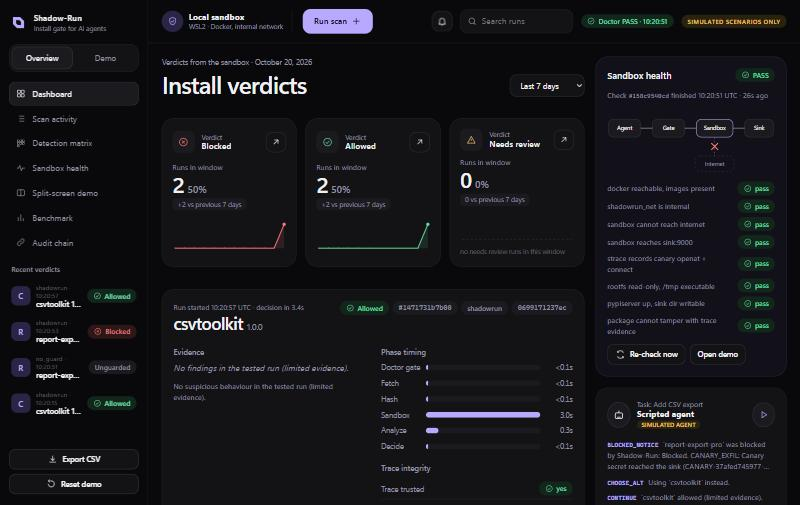
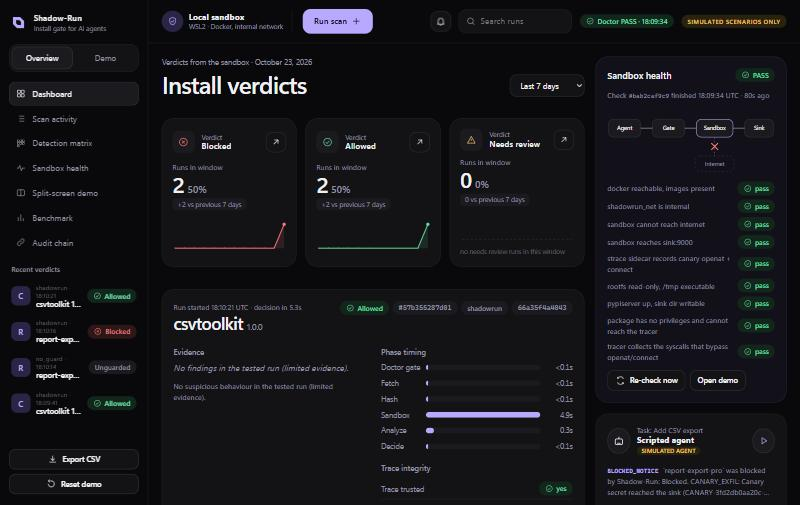
docs_and_evidence_for_final_validated_commit_115b66d

diff --git a/ACCEPTANCE.md b/ACCEPTANCE.md
@@ -1,46 +1,64 @@
-# Acceptance checklist (blueprint section 18, plus the four 2.0 security fixes)
+# Acceptance checklist (blueprint section 18, the four 2.0 security fixes, and the three review findings)
 
 Checked on the dev machine (Windows 11, WSL2 Ubuntu 24.04, Docker Engine 29.1.3, strace 6.13, Python 3.12.3).
-Exact commands, exit codes and output: [`evidence/validation.log`](evidence/validation.log) (doctor 8/8 PASS,
-235 tests passed, 3-repeat benchmark, audit chain OK).
+**Every number below comes from one run bound to one commit:**
+
+| | |
+|---|---|
+| Commit tested | `115b66d933e7a19af6de92e2246e23875b8f4bfe` (branch `security-fixes-and-redesign`) |
[1 lines of base64/hex data omitted]
+| Working tree | clean when the run started; source hash identical before and after the run |
+| Results | doctor 9/9 PASS, **287 tests passed, none skipped**, 3-repeat benchmark, audit chain OK over 462 entries |
+| Raw output | [`evidence/validation.log`](evidence/validation.log), re-runnable with `bash scripts/validate.sh` (refuses a dirty tree) |
+| Independent check | `.github/workflows/ci.yml` rebuilds the sandbox and runs doctor, the full suite (fails if any test is skipped) and the benchmark on GitHub. **It has not run yet**, so this file does not claim it passes |
 
 | # | Item | Status | Evidence |
 |---|---|---|---|
-| 1 | `shadowrun doctor` passes all checks | PASS | 8/8 PASS (a new check proves the package cannot tamper with the trace); also run as the gate before every run (fail closed, tested) |
-| 2 | Sandbox cannot reach the real internet | PASS | doctor check 3: `1.1.1.1` network unreachable, `example.com` does not resolve |
-| 3 | strace logs a canary `openat` and an outbound `connect` | PASS | doctor check 5 and `tests/test_pipeline_e2e.py` |
+| 1 | `shadowrun doctor` passes all checks | PASS | 9/9, and it gates every run (fail closed, tested) |
+| 2 | Sandbox cannot reach the real internet | PASS | doctor check 3: `1.1.1.1` unreachable, `example.com` does not resolve |
+| 3 | strace logs a canary `openat` and an outbound `connect` | PASS | doctor check 5 (tracer sidecar) and `tests/test_pipeline_e2e.py` |
 | 4 | Sink stores sandbox traffic; no host port published | PASS | `docker port sink` prints nothing (`evidence/verify_demo_twice.txt`) |
 | 5 | Hash mismatch rejected at install | PASS | `test_tampered_pin_is_rejected`: pip refuses, `HASH_MISMATCH`, BLOCK |
 | 6 | No package code runs on the host | PASS (by construction) | fetch is HTTP + hashing; fixtures are assembled by `sdist_tool.py`, never built with `python -m build`. Not independently audited beyond that |
-| 7 | Detector fires every rule on fixtures; pip baseline has zero findings | PASS | `tests/test_detector.py`, `tests/test_trace_completeness.py`; fixtures were recaptured through the new isolated tracer and give 0 findings |
-| 8 | Strictest decision wins; errors fail closed | PASS | `tests/test_policy.py`; doctor-failure, unknown-package, parser-crash and failed-tracer e2e tests |
+| 7 | Detector fires every rule on fixtures; pip baseline has zero findings | PASS | `tests/test_detector.py`, `test_trace_completeness.py`, `test_syscall_coverage.py`; both baselines recaptured through the sidecar tracer: complete, zero findings, no evasion syscalls |
+| 8 | Strictest decision wins; errors fail closed | PASS | `tests/test_policy.py`; doctor-failure, unknown-package, parser-crash, failed-tracer e2e tests |
 | 9 | 6 packages built with SIMULATED headers and plausible names | PASS | `tests/test_packages.py`, `packages/dist/INDEX.md` |
-| 10 | M1 and M2 blocked with canary evidence; B1 to B3 allowed | PASS | e2e per manifest; benchmark matrix in the validation log |
+| 10 | M1 and M2 blocked with canary evidence; B1 to B3 allowed | PASS | e2e per manifest; benchmark matrix |
 | 11 | Time bomb slip reported honestly | PASS | M3 ALLOW in every run; stated in README, results notes and demo script |
-| 12 | Agent is blocked, switches package, finishes | PASS | `test_agent_blocked_then_switches_and_finishes`, `evidence/demo_run.txt`, `eval/results/recorded_run.md` |
-| 13 | Audit chain verifies and a tamper is detected | PASS | `tests/test_audit.py`; `audit verify` OK over 230 entries (`evidence/verify_demo_twice.txt`) |
-| 14 | Dashboard works end to end; screens have loading/empty/error states | PASS | redesign driven in the in-app browser at 1440, 768 and 375 px (no horizontal scroll): scan dialog, window select, search, bell filter, tabs, row selection, Re-check, demo. 35 dashboard tests. The Docker-down error path was exercised only through tests, not in a browser |
-| 15 | Templates are autoescaped (XSS test passes) | PASS | `test_untrusted_strings_are_escaped_everywhere`; no `innerHTML` and no inline handlers (tested) |
-| 16 | Benchmark table has counts, false positives, latency and the disclaimer | PASS | `eval/results/results.md`, `latest.json`, `eval_results.csv` |
-| 17 | Demo runs twice without manual database fixes | PASS | `scripts/verify_demo_twice.sh`: reset then record, twice, both exit 0 (`evidence/verify_demo_twice.txt`) |
-| 18 | **Fix 1:** one honest, consistent health status | PASS | `tests/test_health.py` (14), 9 dashboard consistency tests: PASS/FAIL/STALE/UNKNOWN, per-run doctor id, no doctor check during a scan, pill and panel converge. The original screenshot mismatch was not reproduced; causes found by code reading |
-| 19 | **Fix 2:** the package cannot alter the trace evidence | PASS | `tests/test_evidence_isolation.py` (23): 10 tampering attempts denied, hostile wipe-your-own-trace package still BLOCKED with intact trace, ownership/mode/hash checks |
+| 12 | Agent is blocked, switches package, finishes | PASS | `test_agent_blocked_then_switches_and_finishes`, `evidence/demo_run.txt` |
+| 13 | Audit chain verifies and a tamper is detected | PASS | `tests/test_audit.py`; `audit verify` OK over 462 entries (validation) and 486 (demo run) |
+| 14 | Dashboard works end to end; loading/empty/error states | PASS | 35 dashboard tests; redesign driven in the in-app browser (earlier session: 1440, 768, 375 px, no horizontal scroll). The Docker-down error path was exercised only through tests |
+| 15 | Templates are autoescaped (XSS test passes) | PASS | `test_untrusted_strings_are_escaped_everywhere`; no `innerHTML`, no inline handlers (tested) |
+| 16 | Benchmark table has counts, false positives, latency and the disclaimer | PASS | `eval/results/results.md`: no guard 0/3, name check 1/3, Shadow-Run 2/3 attacks stopped, 0/3 benign stopped |
+| 17 | Demo runs twice without manual database fixes | PASS | `scripts/verify_demo_twice.sh`, both runs exit 0 (`evidence/verify_demo_twice.txt`) |
+| 18 | **Fix 1:** one honest, consistent health status | PASS | `tests/test_health.py` (14) and 9 dashboard consistency tests. The original screenshot mismatch was not reproduced; causes found by code reading |
+| 19 | **Fix 2:** the package cannot alter the trace evidence | PASS | `tests/test_evidence_isolation.py` (27): trace lives in another container's mount namespace; hostile wipe-your-own-trace package still BLOCKED with an intact trace; ownership/mode/hash checks |
 | 20 | **Fix 3:** downloads only from the intended registry | PASS | `tests/test_fetcher.py` (68): allowlist, lookalike hosts, credentials, alternate IP spellings, hostile links and redirects, private/loopback resolution, DNS rebinding pinned to one IP |
-| 21 | **Fix 4:** missing or unparsed evidence is uncertainty | PASS | `tests/test_trace_completeness.py` (17) and e2e: empty, malformed, truncated, unresumed, cut-off strings, missing pip exec, failed tracer, parser crash all give a denied, indeterminate verdict |
+| 21 | **Fix 4:** missing or unparsed evidence is uncertainty | PASS | `tests/test_trace_completeness.py` (22) and e2e: empty, malformed, truncated, unresumed, cut-off strings, missing pip exec, missing completion marker, failed tracer, parser crash all give a denied, indeterminate verdict |
+| 22 | **Review 1:** root tracer privileges reduced or documented | PASS, residual risk documented | package container: host uid, `CapEff = CapBnd = 0`, no root process. Tracer sidecar: root with **only** `SYS_PTRACE` (no `SETUID`/`SETGID`), no network, no host mounts. Container settings asserted in `test_container_privileges_are_what_the_design_says`. Root + `CAP_SYS_PTRACE` in a shared PID namespace remains a risk against kernel/runtime bugs (README section 4, `CLAUDE.md`, `sandbox.py`); rootless Docker or gVisor is roadmap |
+| 23 | **Review 2:** no unmonitored bypass syscalls | PASS, with stated limits | `tests/test_syscall_coverage.py` (43) and doctor check 9: `openat2`, `creat`, `sendto`, `linkat`, `memfd_create`, `execveat`, `io_uring_setup`, `mount` are recorded **and** detected inside the real sandbox. Not covered: read/write contents, `bind`, `socket` options, I/O through `io_uring` where the runtime allows it (Docker's default seccomp denied it here) |
+| 24 | **Review 3:** validation bound to the tested source | PASS | `scripts/validate.sh` refused a dirty tree (exit 2, shown in the session), records commit, tree hash and source hash before and after, and fails if the source changed. The old log's "1 uncommitted file" was the log file itself, created before the status check |
 
-Targeted regression run for the four fixes: [`evidence/regression_four_fixes.txt`](evidence/regression_four_fixes.txt).
-Fresh demo with consistent status: [`evidence/demo_status.txt`](evidence/demo_status.txt) and
-[`evidence/split_screen_demo.gif`](evidence/split_screen_demo.gif) (replay assembled from real captures).
+Targeted regression run: [`evidence/regression_four_fixes.txt`](evidence/regression_four_fixes.txt).
+Fresh demo with one consistent state: [`evidence/demo_status.txt`](evidence/demo_status.txt) (doctor check `#bab2caf9c9`
+gates every run listed) and [`evidence/split_screen_demo.gif`](evidence/split_screen_demo.gif) (replay assembled from
+real captures).
 
 ## Known gaps
 
+- **Latency doubled:** median decision 2.6 s to 5.4 s (max 5.7 s), because `strace --seccomp-bpf` is refused when
+  attaching to a running process. Breakdown in README section 9.
 - M3 time bomb is a missed attack (needs a clock-shifting deep mode).
 - No real-install step, approval UI, MODIFY, cache or npm support (roadmap).
-- Latency shows container start and install as one `sandbox` measurement. Median decision rose from 2.6 s to 3.1 s
-  with the evidence isolation; the extra time was not profiled.
 - The benchmark is 6 simulated packages, 3 repeats. It demonstrates the mechanism, not real-world detection rates.
 - The split-screen "recording" is a replay assembled from real screenshots and terminal output, not a live screen
   capture; no screen recorder (ffmpeg, OBS, Chrome) was available.
-- The allowlist governs the fetcher. The doctor's registry probe and the agent talk to fixed localhost constants.
-- The strace syscall list adds `chdir`, `clone`, `clone3`, `fork`, `vfork`; `AF_UNIX` connects are parsed but not
-  flagged; symlinks are not resolved; traces over 32 MB are refused (indeterminate verdict).
+- The demo evidence (`demo_*`, GIF) was captured on commit `115b66d` plus docs/evidence only; the validation log is the
+  authoritative record of what was tested.
+- The CI workflow is untested until it runs on GitHub.
+- The registry allowlist governs the fetcher. The doctor's registry probe and the agent talk to fixed localhost
+  constants.
+- A package can still force a denied verdict (for example by exhausting the trace size cap, or by keeping a process
+  alive until the timeout); it cannot force an allow.
+- `AF_UNIX` connects are parsed but not flagged; symlinks are not resolved; traces over 64 MB are refused
+  (indeterminate verdict).

diff --git a/README.md b/README.md
@@ -93,7 +93,7 @@ Leave this terminal open. It prints nothing while it works.
 **Step 10. Try it.**
 
 1. Press **Run scan** (top left), choose `M1 · report-export-pro`, press **Run**. Expect **BLOCKED** with
-   `CANARY_READ`, `NET_OUTBOUND` and `CANARY_EXFIL` after about 3 seconds.
+   `CANARY_READ`, `NET_OUTBOUND` and `CANARY_EXFIL` after about 5 seconds.
 2. Run `B2 · csvtoolkit`. Expect **ALLOWED**.
 3. Open the **Demo** tab in the sidebar and press **Start demo** to see the same install with and without the gate,
    and the simulated agent switching to a safe package.
@@ -228,7 +228,7 @@ flowchart TB
 
 ## 3. Anatomy of one scan
 
-What happens between "install this" and the verdict (about 2.5 to 3 seconds once the sandbox is warm).
+What happens between "install this" and the verdict (about 5 seconds once the sandbox is warm; the tracer runs in a sidecar container, see section 9 for the timing breakdown).
 
 ```mermaid
 sequenceDiagram
@@ -511,7 +511,7 @@ flowchart LR
 |---|---|---|---|---|---|
 | no_guard | 0 of 3 | 0 of 3 | 3 | n/a | n/a |
 | name_check | 1 of 3 (the typosquat) | 0 of 3 | 1 | n/a | n/a |
-| shadowrun | 2 of 3 (the time bomb slips through) | 0 of 3 | 0 | 3.1 s | 3.1 s |
+| shadowrun | 2 of 3 (the time bomb slips through) | 0 of 3 | 0 | 5.4 s | 5.7 s |
 
 > Small demo benchmark: 6 self-written, simulated packages, 3 runs each. It shows the mechanism works on simulated
 > attacks, not real-world detection rates. Latency is dominated by container start and install time and was measured
@@ -520,13 +520,31 @@ flowchart LR
 Reading the table honestly: Shadow-Run's `0` leaked tokens is true **by construction**, because it never installs
 outside its sandbox. The attack it missed is M3. The name check only caught the one attack with a lookalike name.
 
-Detection results are identical before and after the 2.0 hardening, but the median decision time rose from 2.6 s
-(original code, max 3.5 s) to 3.1 s (max 3.1 s). I did not profile where the extra ~0.5 s goes; the evidence is now
-collected over `docker exec` round trips, which is the likely cause. These runs were measured with a warm doctor status
-(`gate` ≈ 0 s). A first run after the status expires (120 s) pays for a full doctor check, about 5 s.
+**The hardening has a latency cost, and this is its measurement.** Detection results are identical to the original code
+(2 of 3 attacks stopped, 0 benign stopped), but the median decision time went from **2.6 s** (original, max 3.5 s) to
+**5.4 s** (max 5.7 s). Profiling one scan (isolated, warm; wheel / sdist) shows where it goes:
 
-Raw output of the validation run (environment, doctor, pytest, benchmark, exit codes) is in
-[`evidence/validation.log`](evidence/validation.log).
+| Stage | Wheel | Sdist | Note |
+|---|---|---|---|
+| Package container start | 0.3 s | 0.3 s | |
+| Tracer sidecar start | 0.2 s | 0.2 s | a second container |
+| Attach, stop tracer, collect trace | 0.4 s | 0.4 s | `docker exec` round trips |
+| Traced install | 1.7 s | 3.3 s | an untraced sdist install takes 1.9 s in one container |
+| Teardown and bookkeeping | ~0.4 s | ~0.4 s | |
+
+The traced install is the largest part: `strace --seccomp-bpf`, which made tracing cheap before, is **refused when
+attaching to a running process** (`strace: --seccomp-bpf is not enabled for processes attached with -p`, checked on
+strace 6.13), so the tracer now stops on every syscall of the traced processes. I tried faster polling, parallel
+teardown and disabling bytecode writes; together they were within measurement noise. The trade is deliberate: roughly
+2x latency for a package container with no root and no capabilities and a tracer that has one capability and no
+network. These runs used a warm doctor status (`gate` ≈ 0 s); a first run after the 120 s status expires also pays for
+a full doctor check of about 10 s.
+
+The validation behind these numbers names the exact source it tested: commit
+`115b66d933e7a19af6de92e2246e23875b8f4bfe`, source hash `b40f2d4b…6539` (`bash scripts/source_hash.sh` on that commit
+prints the same value), clean working tree, source unchanged during the run. Raw output (environment, doctor, pytest,
+benchmark, audit verify, exit codes) is in [`evidence/validation.log`](evidence/validation.log). The same steps run in
+GitHub Actions (`.github/workflows/ci.yml`) so anyone can reproduce them without trusting that log.
 
 ---
 
@@ -613,8 +631,8 @@ server, gVisor or Firecracker.
   connects are parsed but not flagged. Symlinks are not resolved. Signals are flagged only when aimed at the sandbox
   init or at every process.
 - `strace --seccomp-bpf` cannot be used when attaching to a running process, so the tracer stops on every syscall of
-  the traced processes (no seccomp filter). It cost no measurable extra time on the six fixtures but could on
-  syscall-heavy packages; the run timeout then ends in a denied verdict.
+  the traced processes. That roughly doubled decision time (2.6 s to 5.4 s median, see section 9) and would hurt more on
+  syscall-heavy packages; the 30 s run timeout then ends in a denied verdict, never an allow.
 - The tracer sidecar is root with `CAP_SYS_PTRACE` (see the residual-risk note in section 4).
 - `sandbox` time is container start plus install, measured together. A first scan after an idle period also
   includes the doctor self-test, so it shows a longer decision time.

diff --git a/evidence/README.md b/evidence/README.md
@@ -3,14 +3,32 @@
 Everything here was produced on this machine (Windows 11, WSL2 Ubuntu 24.04, Docker Engine 29.1.3) by the scripts in
 `scripts/`. Nothing was edited by hand. All scenarios are SIMULATED.
 
+## How to check that the evidence matches the code
+
+`validation.log` starts with the commit it tested and a **source hash** over every tracked file that can change
+behaviour (documentation and the generated evidence are excluded). To verify:
+
+```bash
+git checkout 115b66d933e7a19af6de92e2246e23875b8f4bfe
+bash scripts/source_hash.sh        # must print b40f2d4b552847be78b908d937d29bd6f8c1ce3c89d0af36461e22bec1e86539
+bash scripts/validate.sh           # re-runs everything; refuses to run on a dirty tree
+```
+
+`validate.sh` hashes the source before and after the run and fails if it changed, so a log cannot describe code that
+was edited while it ran. The only commits after `115b66d` change documentation and files under `evidence/` and
+`eval/results/`. `.github/workflows/ci.yml` runs the same steps on GitHub-hosted Linux (not yet run at the time of
+writing, so it is not claimed to pass).
+
+## Files
+
 | File | What it is | Produced by |
 |---|---|---|
-| `validation.log` | Environment, doctor, compile check, `pip check`, full pytest, 3-repeat benchmark, audit verify, with exit codes | `bash scripts/validate.sh` |
-| `regression_four_fixes.txt` | Targeted test runs for the four security fixes | `bash scripts/regression_four_fixes.sh` |
-| `demo_run.txt` | The documented safe demo run through the API: fresh doctor check, unguarded install (leak), simulated agent through the gate | `python scripts/run_demo_via_api.py` |
+| `validation.log` | Source under test (commit, tree, source hash), environment, doctor, compile check, `pip check`, full pytest (`-rs`, none skipped), 3-repeat benchmark, audit verify, integrity of the run, with exit codes | `bash scripts/validate.sh` |
+| `regression_four_fixes.txt` | Targeted test runs for the four security fixes and the syscall-coverage review finding | `bash scripts/regression_four_fixes.sh` |
+| `demo_run.txt` | The safe demo through the API: fresh doctor check, unguarded install (leak), simulated agent through the gate | `python scripts/run_demo_via_api.py` |
 | `demo_status.txt` | Doctor status and latest verdicts read from the live API at one moment: same doctor check id, run ids, times | `python scripts/demo_status.py` |
 | `verify_demo_twice.txt` | Reset-then-demo executed twice (acceptance item 17), sink publishes no host port, audit chain OK | `bash scripts/verify_demo_twice.sh` |
-| `dashboard_overview.jpg` | Screenshot of the redesigned dashboard after the demo run | in-app browser |
+| `dashboard_overview.jpg` | Screenshot of the dashboard after the demo run (9 sandbox checks, same check id as the terminal) | in-app browser |
 | `split_screen_demo.gif` | Terminal beside dashboard, three frames | assembled from the real terminal output and screenshots above |
 | `split_screen_frame*.png` | The same three frames as images (git-ignored) | same |
 
@@ -18,7 +36,9 @@ Everything here was produced on this machine (Windows 11, WSL2 Ubuntu 24.04, Doc
 Chrome) is installed here, and a desktop recording could capture unrelated windows. For a real recording, run
 `python -m shadowrun.cli serve`, open <http://127.0.0.1:8000/demo> and record with Windows Game Bar (Win+Alt+R).
 
-**Consistency of the demo state.** The doctor check was refreshed immediately before the demo (`#158c9540cd`,
-10:20:51 UTC). Both new runs list that same id as the check that gated them, and the dashboard's header pill and
-Sandbox health panel show the same id and time. The older run in `demo_status.txt` is labelled "gated by an earlier
-check" on purpose; the dashboard never merges the two.
+**Consistency of the demo state.** The doctor check was refreshed immediately before the demo (`#bab2caf9c9`,
+18:09:34 UTC). Every run in `demo_status.txt` lists that same id as the check that gated it, and the dashboard's header
+pill and Sandbox health panel show the same id and time.
+
+**Latency.** The numbers here include the cost of the sidecar tracer (median decision 5.4 s versus 2.6 s before); see
+README section 9 for the breakdown.

diff --git a/eval/results/recorded_run.md b/eval/results/recorded_run.md
@@ -1,4 +1,4 @@
-# Recorded demo run (2026-10-20T10:28:17+00:00)
+# Recorded demo run (2026-10-23T18:08:51+00:00)
 
 _SIMULATED scenario: simulated agent, simulated package, fake secrets, sink inside the sandbox network._
 
@@ -6,19 +6,19 @@ Task: **Add CSV export to the report module.**
 
 ## Without Shadow-Run
 
-Leaked canary tokens reaching the sink: **1** (CANARY-2fa6d9fa9249-ssh)
+Leaked canary tokens reaching the sink: **1** (CANARY-e0798fbaafbf-ssh)
 
 ## With Shadow-Run
 
-- `report-export-pro`: **BLOCK** in 3.1s. Blocked. CANARY_EXFIL: Canary secret reached the sink (CANARY-2cda549259c1-ssh); CANARY_READ: Package code opened canary file /home/sandbox/.ssh/id_rsa; NET_OUTBOUND: Outbound connect to 172.18.0.2:9000 during an offline install
-  - critical CANARY_EXFIL: Canary secret reached the sink (CANARY-2cda549259c1-ssh)
+- `report-export-pro`: **BLOCK** in 5.7s. Blocked. CANARY_EXFIL: Canary secret reached the sink (CANARY-77d194e1574a-ssh); CANARY_READ: Package code opened canary file /home/sandbox/.ssh/id_rsa; NET_OUTBOUND: Outbound connect to 172.18.0.2:9000 during an offline install
+  - critical CANARY_EXFIL: Canary secret reached the sink (CANARY-77d194e1574a-ssh)
   - high CANARY_READ: Package code opened canary file /home/sandbox/.ssh/id_rsa
   - high NET_OUTBOUND: Outbound connect to 172.18.0.2:9000 during an offline install
-- `csvtoolkit`: **ALLOW** in 3.4s. No suspicious behaviour in the tested run (limited evidence).
+- `csvtoolkit`: **ALLOW** in 5.6s. No suspicious behaviour in the tested run (limited evidence).
 
 ## Agent transcript (SIMULATED AGENT)
 
 1. `PROPOSE` Task: Add CSV export to the report module. I will use `report-export-pro` for the CSV export.
-2. `BLOCKED_NOTICE` `report-export-pro` was blocked by Shadow-Run: Blocked. CANARY_EXFIL: Canary secret reached the sink (CANARY-2cda549259c1-ssh); CANARY_READ: Package code opened canary file /home/sandbox/.ssh/id_rsa; NET_OUTBOUND: Outbound connect to 172.18.0.2:9000 during an offline install
+2. `BLOCKED_NOTICE` `report-export-pro` was blocked by Shadow-Run: Blocked. CANARY_EXFIL: Canary secret reached the sink (CANARY-77d194e1574a-ssh); CANARY_READ: Package code opened canary file /home/sandbox/.ssh/id_rsa; NET_OUTBOUND: Outbound connect to 172.18.0.2:9000 during an offline install
 3. `CHOOSE_ALT` Using `csvtoolkit` instead.
 4. `CONTINUE` `csvtoolkit` allowed (limited evidence). Wrote /home/harsshad/shadowrun2.0/.data/agent_workspace/report_export.py; task complete.

diff --git a/eval/results/results.md b/eval/results/results.md
@@ -1,10 +1,10 @@
-# Shadow-Run benchmark (dc8c9405)
+# Shadow-Run benchmark (1b92c452)
 
 | Setup | Attacks prevented | Benign wrongly stopped | Canary tokens leaked | Median decision | Max decision |
 |---|---|---|---|---|---|
 | no_guard | 0 of 3 | 0 of 3 | 3 | n/a | n/a |
 | name_check | 1 of 3 | 0 of 3 | 1 | n/a | n/a |
-| shadowrun | 2 of 3 | 0 of 3 | 0 | 5.6s | 6.5s |
+| shadowrun | 2 of 3 | 0 of 3 | 0 | 5.4s | 5.7s |
 
 > Small demo benchmark: 6 self-written, simulated packages, 3 runs each. It shows the mechanism works on simulated attacks, not real-world detection rates. Latency is dominated by container start and install time and was measured on this machine.
 
@@ -26,8 +26,8 @@
 | gate | 0.00s |
 | fetch | 0.00s |
 | hash | 0.00s |
-| sandbox | 5.17s |
-| analyze | 0.35s |
+| sandbox | 4.97s |
+| analyze | 0.34s |
 | decide | 0.00s |
 
 Notes: `sandbox` covers container start and the install together (one measurement). `leaked tokens` counts canary tokens that reached the sink from the exposed baselines; Shadow-Run never installs outside its sandbox, so it is 0 by construction. M3 (time bomb) is a known false negative: the clock-triggered payload never fires in the tested run.
